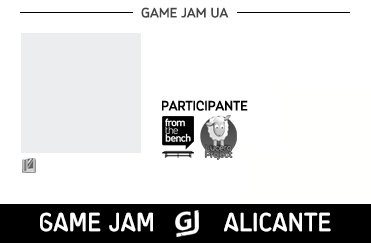
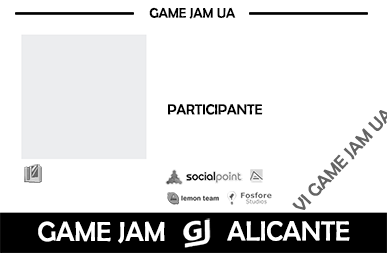
Badge generation

diff --git a/src/GJA/GameJam/UserBundle/Command/GenerateBadgesCommand.php b/src/GJA/GameJam/UserBundle/Command/GenerateBadgesCommand.php
@@ -53,7 +53,7 @@ class GenerateBadgesCommand extends ContainerAwareCommand
             $badgeFilename = $this->generateBadge($user);
 
             if ($badgeFilename !== false) {
-                $output->writeln('Generated badge: <info>'.$badgeFilename.'</info>\\n');
+                $output->writeln('Generated badge: <info>'.$badgeFilename.'</info>');
             }
 
             if ($key >= $limit) {
@@ -119,10 +119,10 @@ class GenerateBadgesCommand extends ContainerAwareCommand
             }
         }
 
-        $avatarImage = new Image($avatar, 120, 120);
-        $avatarImage->cropResize(120, 120);
+        $avatarImage = new Image($avatar, 122, 122);
+        $avatarImage->cropResize(122, 122);
 
-        $image->merge($avatarImage, 20, 33, 120, 120);
+        $image->merge($avatarImage, 20, 37, 126, 119, 122);
     }
 
     protected function drawUsername(Image $image, User $user, $fontFile)
@@ -133,18 +133,18 @@ class GenerateBadgesCommand extends ContainerAwareCommand
     protected function drawTwitter(Image $image, User $user, $fontFile)
     {
         if ($twitter = $user->getTwitter()) {
-            $image->write($fontFile, '@'.$twitter, 155, 80, 15, 0, 0x6363B0);
+            $image->write($fontFile, '@'.$twitter, 158, 85, 15, 0, 0x6363B0);
         }
     }
 
     private function drawLevel(Image $image, User $user, $fontSci)
     {
-        $image->write($fontSci, $user->getLevel() ?: 0, 40, 172, 14);
+        $image->write($fontSci, $user->getLevel() ?: 0, 50, 180, 14);
     }
 
     private function drawTeam(Image $image, $team, $fontSci)
     {
-        $image->write($fontSci, $team, 20, 192, 14);
+        $image->write($fontSci, $team, 20, 202, 14);
     }
 
     private function remoteImageExists($url)
